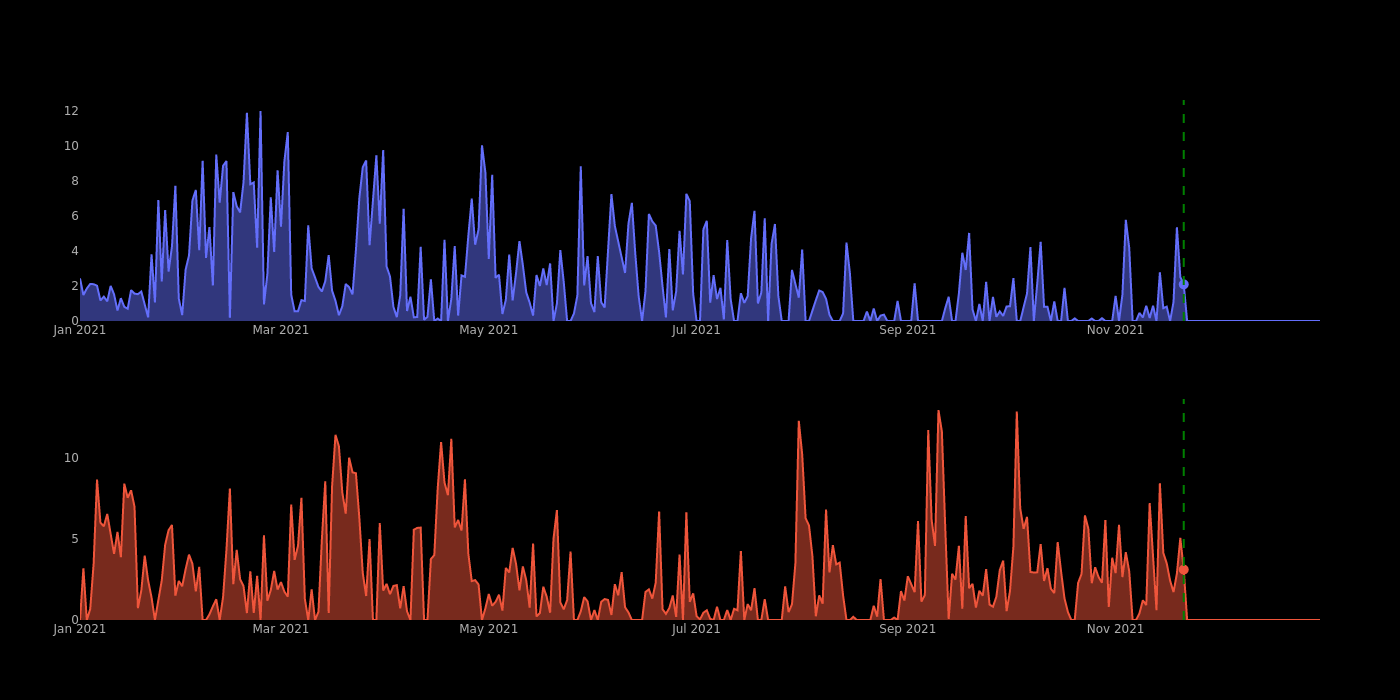
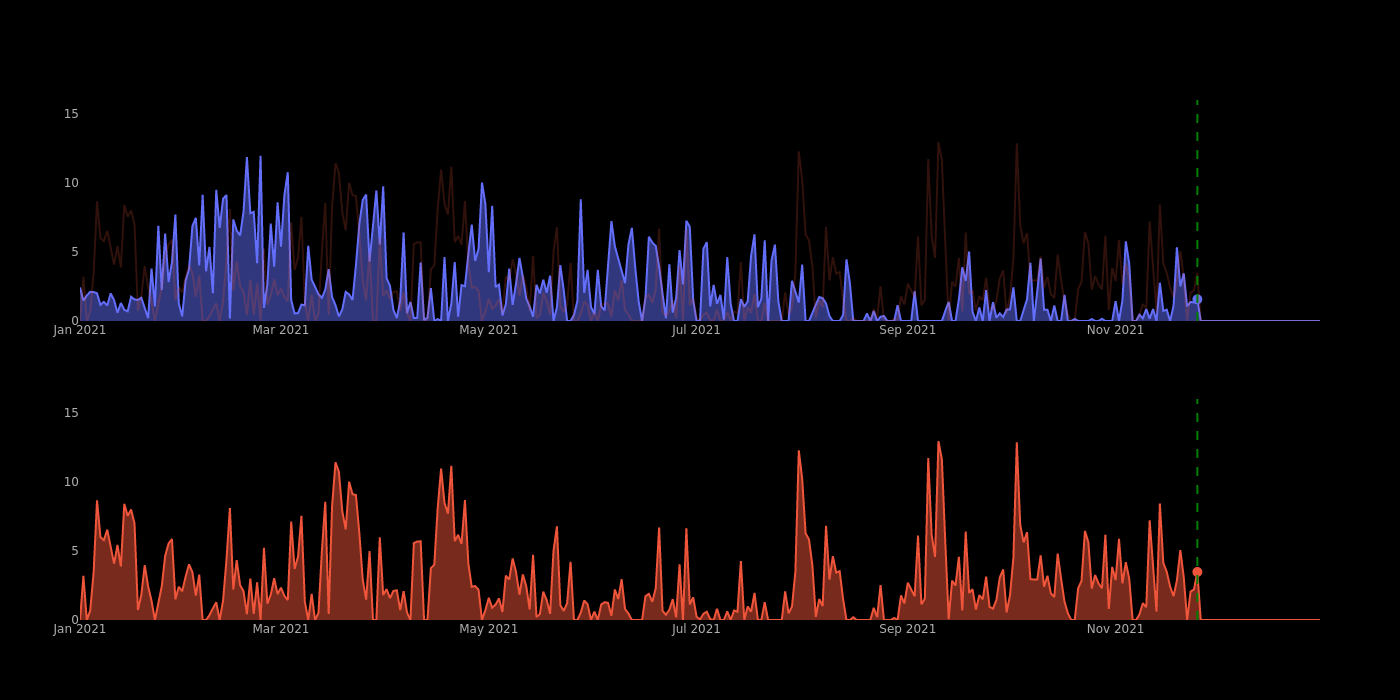
Update with configparser

diff --git a/DesktopDashboard.py b/DesktopDashboard.py
@@ -2,19 +2,20 @@ from datetime import datetime
 from ATimeLogger import ATimeLoggerClient
 import plotly.graph_objects as go
 from plotly.subplots import make_subplots
+import configparser
 
-
+config = configparser.ConfigParser()
+config.read('settings.ini')
 
 MARKER_SIZE = 10
 if __name__ == '__main__':
-    client = ATimeLoggerClient("email", "pass")
-
+    client = ATimeLoggerClient(config['LOGIN']['username'],config['LOGIN']['password'])
 
     # Graph 1
     df = client.get_group_hours(
         datetime(day=1, month=1, year=2021),
         datetime(day=31, month=12, year=2021),
-        'Graph 1'
+        config['GRAPHS']['fig1_1']
     )
 
     fig = make_subplots(rows=2, cols=1)
@@ -44,8 +45,18 @@ if __name__ == '__main__':
     df = client.get_group_hours(
         datetime(day=1, month=1, year=2021),
         datetime(day=31, month=12, year=2021),
-        'Graph 2',
+        config['GRAPHS']['fig1_2']
     )
+    fig.add_trace(
+        go.Scatter(
+            x=df.index,
+            y=df['hours'],
+            line_color='rgba(239, 84, 57, 0.2)',
+        ),
+        row=1,
+        col=1,
+    )
+
     fig.add_trace(
         go.Scatter(
             x=df.index,
@@ -59,6 +70,8 @@ if __name__ == '__main__':
     fig.update_layout(
         paper_bgcolor='rgb(0,0,0)',
         plot_bgcolor='rgb(0,0,0)',
+        yaxis_range=[0, 16],
+        yaxis2_range=[0, 16],
         xaxis_showgrid=False,
         yaxis_zeroline=False,
         yaxis_showgrid=False,
@@ -93,7 +106,7 @@ if __name__ == '__main__':
     df = client.get_group_hours(
         datetime(day=1, month=1, year=2021),
         datetime(day=31, month=12, year=2021),
-        'Graph 3'
+        config['GRAPHS']['fig2_1']
     )
 
     fig2.add_trace(
@@ -121,7 +134,7 @@ if __name__ == '__main__':
     df = client.get_activity_hours(
         datetime(day=1, month=1, year=2021),
         datetime(day=31, month=12, year=2021),
-        'Graph 4',
+        config['GRAPHS']['fig2_2']
     )
 
     fig2.add_trace(
